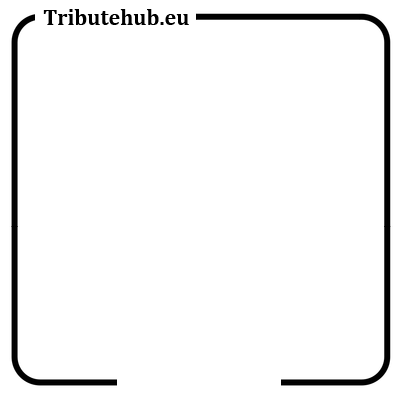
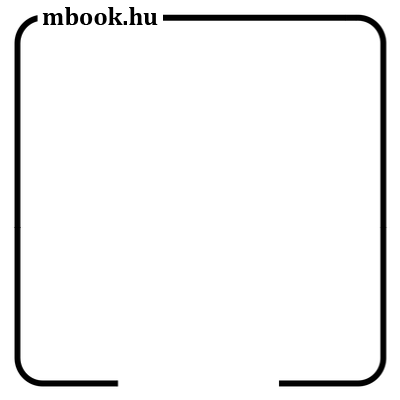
update

Changed region(s): [[0.03, 0.0, 0.99, 0.99]]

diff --git a/database/seeders/DatabaseSeeder.php b/database/seeders/DatabaseSeeder.php
@@ -50,8 +50,8 @@ class DatabaseSeeder extends Seeder
 
             // Настраиваем параметры текста
             $draw = new ImagickDraw();
-            $draw->setFontSize(20);
-            $draw->setFontWeight(500);
+            $draw->setFontSize(21);
+            $draw->setFontWeight(700);
             $draw->setGravity(Imagick::GRAVITY_SOUTH);
             $draw->setFillColor(new ImagickPixel('#000000'));
 
